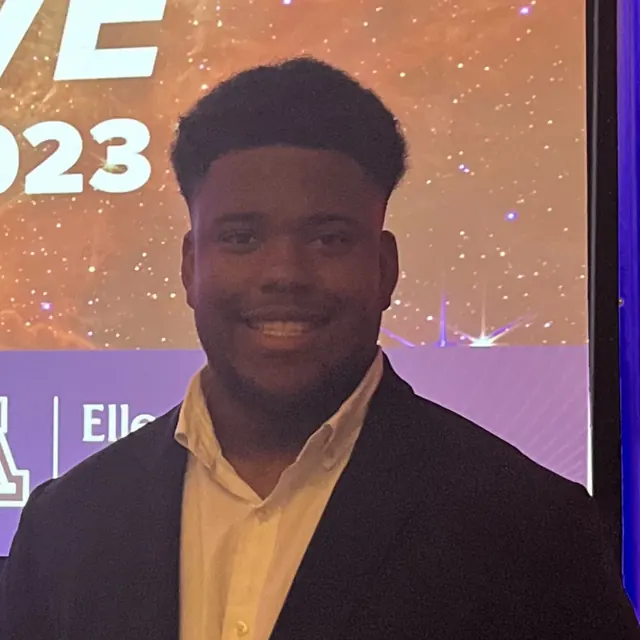
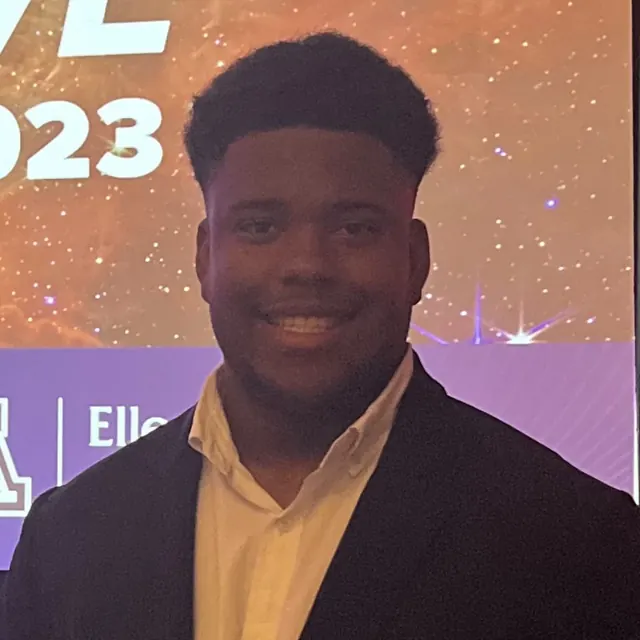
Recrop portrait, keep status badges on one line, fix heading order on Projects

diff --git a/src/components/Header.tsx b/src/components/Header.tsx
@@ -20,8 +20,14 @@ export function Header() {
   const buttonRef = useRef<HTMLButtonElement>(null);
   const { pathname } = useLocation();
 
-  // Close the menu after navigating, and on Escape (returning focus to the button).
-  useEffect(() => setOpen(false), [pathname]);
+  // Close the menu after navigating: reset during render when the path changes.
+  const [menuPath, setMenuPath] = useState(pathname);
+  if (menuPath !== pathname) {
+    setMenuPath(pathname);
+    setOpen(false);
+  }
+
+  // Close on Escape, returning focus to the button.
   useEffect(() => {
     if (!open) return;
     const onKey = (e: KeyboardEvent) => {

diff --git a/src/components/ThemeToggle.tsx b/src/components/ThemeToggle.tsx
@@ -3,10 +3,10 @@ import { applyTheme, currentTheme, type Theme } from '../app/theme';
 import { Icon } from './Icon';
 
 export function ThemeToggle() {
-  const [theme, setTheme] = useState<Theme>('light');
+  // The app renders only in the browser, so the current theme is known up front.
+  const [theme, setTheme] = useState<Theme>(currentTheme);
 
   useEffect(() => {
-    setTheme(currentTheme());
     const media = window.matchMedia('(prefers-color-scheme: dark)');
     const onChange = () => setTheme(currentTheme());
     media.addEventListener('change', onChange);

diff --git a/src/components/ConceptCard.tsx b/src/components/ConceptCard.tsx
@@ -11,7 +11,7 @@ export function ConceptCard({ concept, headingLevel = 3 }: { concept: Concept; h
   const H = `h${headingLevel}` as const;
   return (
     <article className="group relative flex h-full flex-col rounded-card border border-separator bg-surface p-6 transition hover:border-ink-3 sm:p-7">
-      <div className="mb-6 flex items-center justify-between gap-3">
+      <div className="mb-6 flex flex-wrap items-center justify-between gap-3">
         <p className="eyebrow">{concept.kind}</p>
         <StatusBadge status={concept.status} />
       </div>

diff --git a/src/components/StatusBadge.tsx b/src/components/StatusBadge.tsx
@@ -11,7 +11,7 @@ const statuses: Record<ConceptStatus, { label: string; icon: IconName }> = {
 export function StatusBadge({ status }: { status: ConceptStatus }) {
   const s = statuses[status];
   return (
-    <span className="inline-flex items-center gap-1.5 rounded-full border border-separator px-3 py-1 text-sm font-medium text-ink-2">
+    <span className="inline-flex shrink-0 items-center gap-1.5 whitespace-nowrap rounded-full border border-separator px-3 py-1 text-sm font-medium text-ink-2">
       <Icon name={s.icon} />
       {s.label}
     </span>

diff --git a/src/pages/Home.tsx b/src/pages/Home.tsx
@@ -83,7 +83,7 @@ export function Home() {
 
       {/* Snapshot */}
       <section aria-labelledby="about-title">
-        <Container className="grid gap-10 py-20 lg:grid-cols-[1fr_1.4fr]">
+        <Container className="grid gap-2 py-20 lg:grid-cols-[1fr_1.4fr] lg:gap-10">
           <Reveal>
             <SectionHeading id="about-title" eyebrow="Snapshot" title="About me" />
           </Reveal>

diff --git a/src/pages/Projects.tsx b/src/pages/Projects.tsx
@@ -15,6 +15,7 @@ export default function Projects() {
         intro="Case competitions, client proposals and brand plans. Every deck is here to download."
       />
       <Container className="py-16">
+        <h2 className="sr-only">Case projects</h2>
         <ul className="grid gap-6 md:grid-cols-2">
           {projects.map((p) => (
             <li key={p.slug}>
